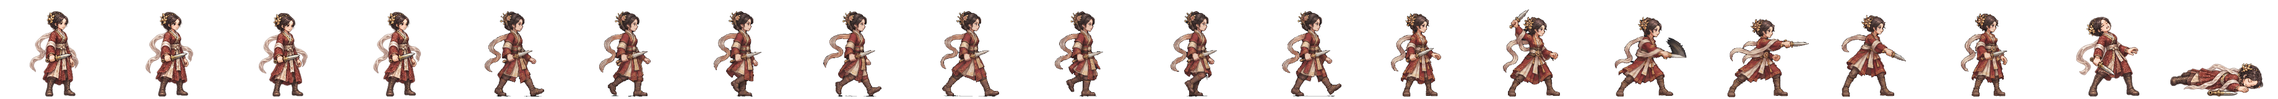
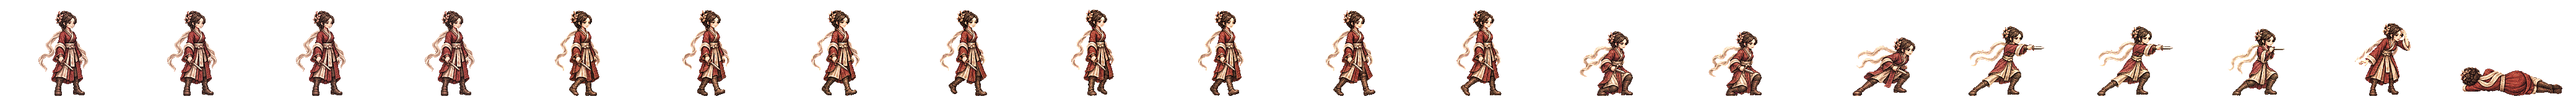
소리 · 궁중 무희 새 전투 띠를 게임에 (그림 API만 · 단검 · 찌르기 · 맞음 네 칸 · 개성 동작) · 갠내 · 독무덤 · 연회 첩자는 걷기만 Codex로 · 열한째 묶음 인수인계
Claude-Session: https://claude.ai/code/session_01TRiuN7s6aDfSnaHxrkctmU

Changed region(s): [[0.0625, 0.0938, 0.5312, 1.0], [0.5625, 0.125, 1.0, 1.0], [0.0, 0.125, 0.0312, 0.9688]]

diff --git a/src/realm/data/spritePx.ts b/src/realm/data/spritePx.ts
@@ -1,3 +1,3 @@
 /** public/realm/anim-px/manifest.json 의 사본 — tools/sprite-normalize.mjs 가 만든다 (손으로 고치지 말 것). 칸 [가로, 세로] · feet = 발 줄(칸 위에서 y) · bodyPx = 서 있는 몸 키 */
 import { expandManifest } from './sprite-manifest.ts'
-export const SPRITE_PX: Readonly<Record<string, { readonly cell: readonly [number, number]; readonly feet: number; readonly bodyPx: number; readonly kind: 'general' | 'soldier' | 'folk' | 'crowd'; readonly cells: number }>> = expandManifest<{ readonly cell: readonly [number, number]; readonly feet: number; readonly bodyPx: number; readonly kind: 'general' | 'soldier' | 'folk' | 'crowd'; readonly cells: number }>([{"cell":[166,128],"feet":126,"bodyPx":124,"kind":"soldier","cells":20},{"cell":[116,128],"feet":126,"bodyPx":117,"kind":"soldier","cells":20},{"cell":[127,128],"feet":126,"bodyPx":116,"kind":"soldier","cells":20},{"cell":[269,128],"feet":126,"bodyPx":126,"kind":"soldier","cells":20},{"cell":[503,128],"feet":126,"bodyPx":127,"kind":"soldier","cells":20},{"cell":[614,128],"feet":126,"bodyPx":126,"kind":"soldier","cells":20},{"cell":[200,160],"feet":156,"bodyPx":138,"kind":"general","cells":20},{"cell":[208,160],"feet":155,"bodyPx":138,"kind":"general","cells":20},{"cell":[208,160],"feet":154,"bodyPx":138,"kind":"general","cells":20},{"cell":[304,160],"feet":155,"bodyPx":135,"kind":"general","cells":20},{"cell":[184,160],"feet":156,"bodyPx":138,"kind":"general","cells":20},{"cell":[208,160],"feet":154,"bodyPx":136,"kind":"general","cells":20},{"cell":[232,160],"feet":156,"bodyPx":138,"kind":"general","cells":20},{"cell":[208,160],"feet":156,"bodyPx":138,"kind":"general","cells":20},{"cell":[168,160],"feet":156,"bodyPx":124,"kind":"general","cells":20},{"cell":[216,160],"feet":156,"bodyPx":130,"kind":"general","cells":20},{"cell":[200,160],"feet":156,"bodyPx":116,"kind":"general","cells":20},{"cell":[192,160],"feet":156,"bodyPx":138,"kind":"general","cells":20},{"cell":[208,160],"feet":154,"bodyPx":135,"kind":"general","cells":20},{"cell":[280,160],"feet":156,"bodyPx":138,"kind":"general","cells":20},{"cell":[232,160],"feet":156,"bodyPx":134,"kind":"general","cells":20},{"cell":[144,160],"feet":156,"bodyPx":70,"kind":"general","cells":20},{"cell":[208,160],"feet":156,"bodyPx":70,"kind":"general","cells":20},{"cell":[192,160],"feet":156,"bodyPx":70,"kind":"general","cells":20},{"cell":[240,160],"feet":155,"bodyPx":138,"kind":"general","cells":20},{"cell":[160,160],"feet":156,"bodyPx":135,"kind":"general","cells":20},{"cell":[192,160],"feet":156,"bodyPx":128,"kind":"general","cells":20},{"cell":[224,160],"feet":155,"bodyPx":138,"kind":"general","cells":20},{"cell":[216,160],"feet":156,"bodyPx":138,"kind":"general","cells":20},{"cell":[208,160],"feet":156,"bodyPx":134,"kind":"general","cells":20},{"cell":[176,160],"feet":156,"bodyPx":130,"kind":"general","cells":20},{"cell":[248,160],"feet":156,"bodyPx":138,"kind":"general","cells":20},{"cell":[248,160],"feet":155,"bodyPx":138,"kind":"general","cells":20},{"cell":[192,160],"feet":155,"bodyPx":138,"kind":"general","cells":20},{"cell":[192,160],"feet":156,"bodyPx":124,"kind":"general","cells":20},{"cell":[208,160],"feet":154,"bodyPx":131,"kind":"general","cells":20},{"cell":[256,160],"feet":156,"bodyPx":138,"kind":"general","cells":20},{"cell":[240,160],"feet":156,"bodyPx":138,"kind":"general","cells":20},{"cell":[232,160],"feet":156,"bodyPx":139,"kind":"general","cells":20},{"cell":[232,160],"feet":156,"bodyPx":73,"kind":"general","cells":20},{"cell":[208,160],"feet":154,"bodyPx":137,"kind":"general","cells":20},{"cell":[264,160],"feet":156,"bodyPx":138,"kind":"general","cells":20},{"cell":[224,160],"feet":156,"bodyPx":138,"kind":"general","cells":20},{"cell":[224,160],"feet":156,"bodyPx":128,"kind":"general","cells":20},{"cell":[176,160],"feet":156,"bodyPx":129,"kind":"general","cells":20},{"cell":[208,160],"feet":154,"bodyPx":139,"kind":"general","cells":20},{"cell":[232,160],"feet":155,"bodyPx":138,"kind":"general","cells":20},{"cell":[208,160],"feet":156,"bodyPx":132,"kind":"general","cells":20},{"cell":[184,160],"feet":156,"bodyPx":122,"kind":"general","cells":20},{"cell":[176,160],"feet":156,"bodyPx":138,"kind":"general","cells":20},{"cell":[280,160],"feet":155,"bodyPx":133,"kind":"general","cells":20},{"cell":[176,160],"feet":156,"bodyPx":70,"kind":"general","cells":20},{"cell":[186,128],"feet":126,"bodyPx":127,"kind":"soldier","cells":20},{"cell":[298,128],"feet":126,"bodyPx":126,"kind":"soldier","cells":20},{"cell":[82,128],"feet":126,"bodyPx":114,"kind":"folk","cells":8},{"cell":[134,128],"feet":126,"bodyPx":119,"kind":"soldier","cells":20},{"cell":[380,128],"feet":126,"bodyPx":124,"kind":"soldier","cells":20},{"cell":[114,128],"feet":126,"bodyPx":115,"kind":"soldier","cells":20},{"cell":[122,128],"feet":126,"bodyPx":114,"kind":"soldier","cells":20},{"cell":[254,128],"feet":126,"bodyPx":128,"kind":"soldier","cells":20},{"cell":[438,128],"feet":126,"bodyPx":126,"kind":"soldier","cells":20},{"cell":[88,128],"feet":126,"bodyPx":113,"kind":"folk","cells":8},{"cell":[100,128],"feet":126,"bodyPx":115,"kind":"folk","cells":8},{"cell":[108,128],"feet":126,"bodyPx":115,"kind":"folk","cells":8},{"cell":[63,128],"feet":126,"bodyPx":113,"kind":"folk","cells":8},{"cell":[69,96],"feet":96,"bodyPx":96,"kind":"crowd","cells":1},{"cell":[54,96],"feet":96,"bodyPx":96,"kind":"crowd","cells":1},{"cell":[47,96],"feet":96,"bodyPx":96,"kind":"crowd","cells":1},{"cell":[49,96],"feet":96,"bodyPx":96,"kind":"crowd","cells":1},{"cell":[57,96],"feet":96,"bodyPx":96,"kind":"crowd","cells":1},{"cell":[55,96],"feet":96,"bodyPx":96,"kind":"crowd","cells":1},{"cell":[45,96],"feet":96,"bodyPx":96,"kind":"crowd","cells":1},{"cell":[53,96],"feet":96,"bodyPx":96,"kind":"crowd","cells":1},{"cell":[64,96],"feet":96,"bodyPx":96,"kind":"crowd","cells":1},{"cell":[184,160],"feet":156,"bodyPx":124,"kind":"general","cells":20},{"cell":[184,160],"feet":156,"bodyPx":134,"kind":"general","cells":20},{"cell":[224,160],"feet":156,"bodyPx":133,"kind":"general","cells":20},{"cell":[192,160],"feet":156,"bodyPx":135,"kind":"general","cells":20},{"cell":[184,160],"feet":156,"bodyPx":137,"kind":"general","cells":20},{"cell":[216,160],"feet":156,"bodyPx":134,"kind":"general","cells":20},{"cell":[216,160],"feet":156,"bodyPx":132,"kind":"general","cells":20},{"cell":[288,160],"feet":156,"bodyPx":138,"kind":"general","cells":20},{"cell":[192,160],"feet":156,"bodyPx":118,"kind":"general","cells":20},{"cell":[208,160],"feet":154,"bodyPx":134,"kind":"general","cells":20},{"cell":[208,160],"feet":154,"bodyPx":128,"kind":"general","cells":20},{"cell":[240,160],"feet":156,"bodyPx":128,"kind":"general","cells":20},{"cell":[184,160],"feet":156,"bodyPx":132,"kind":"general","cells":20},{"cell":[208,160],"feet":156,"bodyPx":123,"kind":"general","cells":20},{"cell":[176,160],"feet":156,"bodyPx":116,"kind":"general","cells":20},{"cell":[272,160],"feet":156,"bodyPx":138,"kind":"general","cells":20},{"cell":[176,160],"feet":156,"bodyPx":122,"kind":"general","cells":20},{"cell":[232,160],"feet":156,"bodyPx":127,"kind":"general","cells":20},{"cell":[168,160],"feet":156,"bodyPx":138,"kind":"general","cells":20},{"cell":[176,160],"feet":156,"bodyPx":137,"kind":"general","cells":20},{"cell":[184,160],"feet":156,"bodyPx":133,"kind":"general","cells":20}],[["axe",0],["bandit-chief",1],["bandit-club",2],["boat",3],["bow",4],["crossbow",5],["gen-adogan",6],["gen-alpyeong",7],["gen-ara",8],["gen-areum",8],["gen-aryeong",9],["gen-bakdal",8],["gen-baram",8],["gen-bdanbi",10],["gen-beom",11],["gen-beombal",8],["gen-beomi",8],["gen-bira",12],["gen-biryu",13],["gen-budeul",8],["gen-byeol",8],["gen-daemusin",14],["gen-daeso",15],["gen-dallae2",10],["gen-dalli",8],["gen-damul",16],["gen-danbi",8],["gen-dangung",17],["gen-darae",18],["gen-dokmudeom",7],["gen-duman",19],["gen-eomni",8],["gen-eureum",20],["gen-g-bow",21],["gen-g-spear",22],["gen-g-sword",23],["gen-gaennae",6],["gen-gamsil",24],["gen-gaon",25],["gen-geota",13],["gen-geumbawi",10],["gen-geumha",26],["gen-goeun",13],["gen-gom",27],["gen-gomok",13],["gen-gureum",8],["gen-guryema",17],["gen-gwaeyu",12],["gen-haebi",8],["gen-haedal",6],["gen-haesol",8],["gen-halla",7],["gen-heo",8],["gen-hneoul",10],["gen-hogong",28],["gen-hojin",13],["gen-horselord",29],["gen-hwalmi",30],["gen-hyeokgeose",17],["gen-hyeopbo",6],["gen-irang",8],["gen-jibaekho",31],["gen-jinha",32],["gen-jita",33],["gen-jumong",34],["gen-keundol",7],["gen-maehwa",35],["gen-maenun",17],["gen-malgalgi",36],["gen-mari",37],["gen-maro",31],["gen-maryeo",13],["gen-mdallae",38],["gen-mir",6],["gen-mount",39],["gen-mulbeom",40],["gen-mulsae",40],["gen-musoe",28],["gen-noeul",8],["gen-nuri",41],["gen-ocheongan",42],["gen-odi",8],["gen-odogan",6],["gen-ogan",17],["gen-oi",43],["gen-olddaeso",20],["gen-onjo",44],["gen-pidogan",13],["gen-sagong",45],["gen-sdallae",6],["gen-sincheongan",28],["gen-singwigan",28],["gen-sinneoul",8],["gen-sobeol",46],["gen-soebi",6],["gen-soebo",47],["gen-soenun",45],["gen-sogeumbi",40],["gen-songbi",42],["gen-songyang",48],["gen-sori",49],["gen-soseono",50],["gen-suro",17],["gen-tahae",6],["gen-tneoul",8],["gen-w-bow",21],["gen-w-spear",51],["gen-waechief",13],["gen-wan",28],["gen-yeodogan",13],["gen-yucheongan",13],["gen-yusugan",31],["horse",52],["marine",53],["migrant",54],["militia",55],["pike",56],["pirate-captain",57],["pirate-sword",58],["shield",59],["spear",60],["villager-builder",61],["villager-farmer",62],["villager-porter",63],["villager-woman",64],["crowd-b1",65],["crowd-b2",66],["crowd-b3",67],["crowd-b4",68],["crowd-b5",69],["crowd-b6",70],["crowd-f1",65],["crowd-f2",70],["crowd-f3",71],["crowd-f4",72],["crowd-f5",65],["crowd-f6",73],["gen-dalbit",13],["gen-base-g-07-drunk-warrior",17],["gen-base-g-40-anya-adan",13],["gen-base-w-13-young-archer",8],["gen-base-g-03-sea-trader",37],["gen-base-w-10-pirate-captain",45],["gen-base-w-64-miri-dallae",45],["gen-base-g-41-goja-bau",37],["gen-base-g-42-dokro-garam",41],["gen-base-g-09-farmer-conscript",28],["gen-base-w-02-goguryeo-lady",28],["gen-base-w-17-mahan-pearl-diver",8],["gen-base-g-17-saro-isageum",47],["gen-base-g-18-daegaya-king",74],["gen-base-g-35-dabeol-dalgu",13],["gen-base-g-19-sabeol-veteran",28],["gen-base-w-23-usisan-whale-queen",8],["gen-base-g-36-gammun-gamdol",42],["gen-base-g-20-samul-sea-lord",36],["gen-base-g-37-eumjeup-jeup",10],["gen-base-g-38-chopal-palmae",17],["gen-base-w-75-daegaya-soemoe",17],["gen-base-g-45-dabeol-deulgae",10],["gen-base-g-04-jinhan-giant",13],["gen-base-g-08-veteran",13],["gen-base-w-18-jinhan-salt-widow",8],["gen-base-w-12-court-dancer",75],["gen-base-w-83-gyeonji-beodeul",76],["gen-base-w-05-baekje-queen",77],["gen-base-w-21-baekje-court-dancer",10],["gen-base-g-01-master-smith",78],["gen-base-g-93-jomun-solgae",30],["gen-base-g-57-bihwa-neup",37],["gen-base-w-72-eumjeup-beol",8],["gen-base-w-102-garak-dana",45],["gen-base-g-68-baekje-onnuri",13],["gen-base-w-27-mokji-jinha",6],["gen-base-g-22-ungcheon-gomnae",6],["gen-base-g-23-sangdang-soedal",13],["gen-base-g-24-wansan-onsan",6],["gen-base-g-25-balla-keunmoe",28],["gen-base-g-61-heomcheuk-bawi",28],["gen-base-g-88-wander-soeul",42],["gen-base-w-14-feast-spy",6],["gen-base-g-12-silla-youth",79],["gen-base-w-08-mahan-warrior",8],["gen-base-g-62-beonye-hanul",37],["gen-base-g-63-heomcheuk-beogeum",13],["gen-base-g-84-wander-seoneul",13],["gen-base-w-50-siljik-mulga",28],["gen-base-g-46-uga-nureongso",28],["gen-base-w-80-usan-gangchi",45],["gen-base-g-47-guga-sanyanggae",28],["gen-base-w-76-gampyeong-baetsagong",8],["gen-base-g-05-mahan-chieftain",80],["gen-base-g-58-usan-uhae",13],["gen-base-g-27-maek-maekdol",13],["gen-base-w-53-hwanna-gabi",45],["gen-base-w-29-golpo-janmul",31],["gen-base-g-53-baekje-haeru",6],["gen-base-w-71-yeonna-neoul",8],["gen-base-w-79-yangmaek-solmae",8],["gen-base-w-34-chopal-deulme",8],["gen-base-g-44-maga-malgup",81],["gen-base-w-31-dabeol-dalbit",45],["gen-base-g-51-biryuna-mulgyeol",42],["gen-base-g-48-gwanna-musoe",13],["gen-base-g-32-uga-sodu",12],["gen-base-g-49-goguryeo-sona",82],["gen-base-g-30-gwanna-soemoe",42],["gen-base-g-52-tamna-oreum",10],["gen-base-g-29-yeonna-myeongsol",34],["gen-base-w-56-dongokjeo-sogeum",83],["gen-base-g-54-mokji-mahan",12],["gen-base-g-33-jeoga-metdol",17],["gen-base-w-36-baekje-maena",8],["gen-base-w-38-sangdang-bulmae",6],["gen-base-w-39-gosaburi-galmae",8],["gen-base-w-40-mujin-munui",47],["gen-base-w-41-hwanna-beodeul",84],["gen-base-w-43-uga-nuri",36],["gen-base-w-45-tamna-oreumbi",10],["gen-base-g-60-golbeol-golgae",10],["gen-base-g-61-apdok-ap",28],["gen-base-g-62-gammun-gamnamu",6],["gen-base-g-63-chopal-yeoul",31],["gen-base-g-64-michuhol-sogeumkkun",37],["gen-base-g-65-sangdang-soemangchi",42],["gen-base-g-66-geonma-malbalgup",85],["gen-base-g-67-gosaburi-buri",86],["gen-base-g-68-mujin-bitgoeul",10],["gen-base-g-69-goryong-yong",42],["gen-base-g-70-siljik-pado",37],["gen-base-w-81-byeokjin-byeolbit",8],["gen-base-w-46-geonma-maru",8],["gen-base-w-48-mujin-mudeung",8],["gen-base-g-26-gampyeong-gaetbeol",12],["gen-base-g-60-eupcha-hangyeol",87],["gen-base-g-15-shaman-man",28],["gen-base-g-85-wander-ure",31],["gen-base-g-43-hwanna-amnok",13],["gen-base-g-50-bullae-gwaha",77],["gen-base-g-55-saro-bakdal",13],["gen-base-g-56-haseulla-gwahama",6],["gen-base-w-06-buyeo-huntress",40],["gen-base-w-22-dongye-tiger-huntress",8],["gen-base-w-25-bihwa-priestess",28],["gen-base-w-24-apdok-queen",10],["gen-base-w-61-iseo-sinae",13],["gen-base-w-26-iseo-tomboy-general",8],["gen-base-g-59-yangmaek-maekson",88],["gen-aw1-haebi",42],["gen-aw1-soseono",89],["gen-aw1-gamsil",10],["gen-aw1-mir",49],["gen-aw1-dangung",6],["gen-aw1-ara",42],["gen-aw1-jumong",90],["gen-aw1-onjo",91],["gen-aw1-base-w-83-gyeonji-beodeul",17],["gen-aw1-heo",41],["gen-aw1-base-g-38-chopal-palmae",6],["gen-aw1-base-w-25-bihwa-priestess",75],["gen-aw1-sori",92],["gen-aw1-gomok",6],["gen-aw1-irang",17],["gen-aw1-budeul",92],["gen-aw1-gom",37],["gen-aw1-sdallae",6],["gen-aw1-base-w-13-young-archer",6],["gen-aw1-base-w-36-baekje-maena",93],["gen-aw1-base-g-09-farmer-conscript",41],["gen-aw1-base-w-02-goguryeo-lady",94],["gen-aw1-haedal",10],["gen-aw1-hogong",6],["gen-aw1-maehwa",49],["gen-aw1-base-w-06-buyeo-huntress",12],["gen-aw1-base-w-08-mahan-warrior",42],["gen-aw1-base-w-29-golpo-janmul",42],["gen-aw1-base-w-31-dabeol-dalbit",17],["gen-aw1-base-w-38-sangdang-bulmae",92],["gen-aw1-bira",28],["gen-aw1-base-w-53-hwanna-gabi",92],["gen-aw1-base-w-56-dongokjeo-sogeum",49],["gen-aw1-base-w-72-eumjeup-beol",17],["gen-aw1-bdanbi",92],["gen-aw1-beom",10],["gen-aw1-beombal",10],["gen-aw1-byeol",17],["gen-aw1-dalli",49],["gen-aw1-malgalgi",31],["gen-aw1-sincheongan",28]])
+export const SPRITE_PX: Readonly<Record<string, { readonly cell: readonly [number, number]; readonly feet: number; readonly bodyPx: number; readonly kind: 'general' | 'soldier' | 'folk' | 'crowd'; readonly cells: number }>> = expandManifest<{ readonly cell: readonly [number, number]; readonly feet: number; readonly bodyPx: number; readonly kind: 'general' | 'soldier' | 'folk' | 'crowd'; readonly cells: number }>([{"cell":[166,128],"feet":126,"bodyPx":124,"kind":"soldier","cells":20},{"cell":[116,128],"feet":126,"bodyPx":117,"kind":"soldier","cells":20},{"cell":[127,128],"feet":126,"bodyPx":116,"kind":"soldier","cells":20},{"cell":[269,128],"feet":126,"bodyPx":126,"kind":"soldier","cells":20},{"cell":[503,128],"feet":126,"bodyPx":127,"kind":"soldier","cells":20},{"cell":[614,128],"feet":126,"bodyPx":126,"kind":"soldier","cells":20},{"cell":[200,160],"feet":156,"bodyPx":138,"kind":"general","cells":20},{"cell":[208,160],"feet":155,"bodyPx":138,"kind":"general","cells":20},{"cell":[208,160],"feet":154,"bodyPx":138,"kind":"general","cells":20},{"cell":[304,160],"feet":155,"bodyPx":135,"kind":"general","cells":20},{"cell":[184,160],"feet":156,"bodyPx":138,"kind":"general","cells":20},{"cell":[208,160],"feet":154,"bodyPx":136,"kind":"general","cells":20},{"cell":[232,160],"feet":156,"bodyPx":138,"kind":"general","cells":20},{"cell":[208,160],"feet":156,"bodyPx":138,"kind":"general","cells":20},{"cell":[168,160],"feet":156,"bodyPx":124,"kind":"general","cells":20},{"cell":[216,160],"feet":156,"bodyPx":130,"kind":"general","cells":20},{"cell":[200,160],"feet":156,"bodyPx":116,"kind":"general","cells":20},{"cell":[192,160],"feet":156,"bodyPx":138,"kind":"general","cells":20},{"cell":[208,160],"feet":154,"bodyPx":135,"kind":"general","cells":20},{"cell":[280,160],"feet":156,"bodyPx":138,"kind":"general","cells":20},{"cell":[232,160],"feet":156,"bodyPx":134,"kind":"general","cells":20},{"cell":[144,160],"feet":156,"bodyPx":70,"kind":"general","cells":20},{"cell":[208,160],"feet":156,"bodyPx":70,"kind":"general","cells":20},{"cell":[192,160],"feet":156,"bodyPx":70,"kind":"general","cells":20},{"cell":[240,160],"feet":155,"bodyPx":138,"kind":"general","cells":20},{"cell":[160,160],"feet":156,"bodyPx":135,"kind":"general","cells":20},{"cell":[192,160],"feet":156,"bodyPx":128,"kind":"general","cells":20},{"cell":[224,160],"feet":155,"bodyPx":138,"kind":"general","cells":20},{"cell":[216,160],"feet":156,"bodyPx":138,"kind":"general","cells":20},{"cell":[208,160],"feet":156,"bodyPx":134,"kind":"general","cells":20},{"cell":[208,160],"feet":154,"bodyPx":130,"kind":"general","cells":20},{"cell":[248,160],"feet":156,"bodyPx":138,"kind":"general","cells":20},{"cell":[248,160],"feet":155,"bodyPx":138,"kind":"general","cells":20},{"cell":[192,160],"feet":155,"bodyPx":138,"kind":"general","cells":20},{"cell":[192,160],"feet":156,"bodyPx":124,"kind":"general","cells":20},{"cell":[208,160],"feet":154,"bodyPx":131,"kind":"general","cells":20},{"cell":[256,160],"feet":156,"bodyPx":138,"kind":"general","cells":20},{"cell":[240,160],"feet":156,"bodyPx":138,"kind":"general","cells":20},{"cell":[232,160],"feet":156,"bodyPx":139,"kind":"general","cells":20},{"cell":[232,160],"feet":156,"bodyPx":73,"kind":"general","cells":20},{"cell":[208,160],"feet":154,"bodyPx":137,"kind":"general","cells":20},{"cell":[264,160],"feet":156,"bodyPx":138,"kind":"general","cells":20},{"cell":[224,160],"feet":156,"bodyPx":138,"kind":"general","cells":20},{"cell":[224,160],"feet":156,"bodyPx":128,"kind":"general","cells":20},{"cell":[176,160],"feet":156,"bodyPx":129,"kind":"general","cells":20},{"cell":[208,160],"feet":154,"bodyPx":139,"kind":"general","cells":20},{"cell":[232,160],"feet":155,"bodyPx":138,"kind":"general","cells":20},{"cell":[208,160],"feet":156,"bodyPx":132,"kind":"general","cells":20},{"cell":[184,160],"feet":156,"bodyPx":122,"kind":"general","cells":20},{"cell":[280,160],"feet":155,"bodyPx":133,"kind":"general","cells":20},{"cell":[176,160],"feet":156,"bodyPx":70,"kind":"general","cells":20},{"cell":[186,128],"feet":126,"bodyPx":127,"kind":"soldier","cells":20},{"cell":[298,128],"feet":126,"bodyPx":126,"kind":"soldier","cells":20},{"cell":[82,128],"feet":126,"bodyPx":114,"kind":"folk","cells":8},{"cell":[134,128],"feet":126,"bodyPx":119,"kind":"soldier","cells":20},{"cell":[380,128],"feet":126,"bodyPx":124,"kind":"soldier","cells":20},{"cell":[114,128],"feet":126,"bodyPx":115,"kind":"soldier","cells":20},{"cell":[122,128],"feet":126,"bodyPx":114,"kind":"soldier","cells":20},{"cell":[254,128],"feet":126,"bodyPx":128,"kind":"soldier","cells":20},{"cell":[438,128],"feet":126,"bodyPx":126,"kind":"soldier","cells":20},{"cell":[88,128],"feet":126,"bodyPx":113,"kind":"folk","cells":8},{"cell":[100,128],"feet":126,"bodyPx":115,"kind":"folk","cells":8},{"cell":[108,128],"feet":126,"bodyPx":115,"kind":"folk","cells":8},{"cell":[63,128],"feet":126,"bodyPx":113,"kind":"folk","cells":8},{"cell":[69,96],"feet":96,"bodyPx":96,"kind":"crowd","cells":1},{"cell":[54,96],"feet":96,"bodyPx":96,"kind":"crowd","cells":1},{"cell":[47,96],"feet":96,"bodyPx":96,"kind":"crowd","cells":1},{"cell":[49,96],"feet":96,"bodyPx":96,"kind":"crowd","cells":1},{"cell":[57,96],"feet":96,"bodyPx":96,"kind":"crowd","cells":1},{"cell":[55,96],"feet":96,"bodyPx":96,"kind":"crowd","cells":1},{"cell":[45,96],"feet":96,"bodyPx":96,"kind":"crowd","cells":1},{"cell":[53,96],"feet":96,"bodyPx":96,"kind":"crowd","cells":1},{"cell":[64,96],"feet":96,"bodyPx":96,"kind":"crowd","cells":1},{"cell":[184,160],"feet":156,"bodyPx":124,"kind":"general","cells":20},{"cell":[208,160],"feet":154,"bodyPx":134,"kind":"general","cells":20},{"cell":[224,160],"feet":156,"bodyPx":133,"kind":"general","cells":20},{"cell":[192,160],"feet":156,"bodyPx":135,"kind":"general","cells":20},{"cell":[184,160],"feet":156,"bodyPx":137,"kind":"general","cells":20},{"cell":[176,160],"feet":156,"bodyPx":130,"kind":"general","cells":20},{"cell":[216,160],"feet":156,"bodyPx":134,"kind":"general","cells":20},{"cell":[216,160],"feet":156,"bodyPx":132,"kind":"general","cells":20},{"cell":[288,160],"feet":156,"bodyPx":138,"kind":"general","cells":20},{"cell":[192,160],"feet":156,"bodyPx":118,"kind":"general","cells":20},{"cell":[208,160],"feet":154,"bodyPx":128,"kind":"general","cells":20},{"cell":[240,160],"feet":156,"bodyPx":128,"kind":"general","cells":20},{"cell":[184,160],"feet":156,"bodyPx":132,"kind":"general","cells":20},{"cell":[208,160],"feet":156,"bodyPx":123,"kind":"general","cells":20},{"cell":[176,160],"feet":156,"bodyPx":116,"kind":"general","cells":20},{"cell":[272,160],"feet":156,"bodyPx":138,"kind":"general","cells":20},{"cell":[176,160],"feet":156,"bodyPx":138,"kind":"general","cells":20},{"cell":[176,160],"feet":156,"bodyPx":122,"kind":"general","cells":20},{"cell":[232,160],"feet":156,"bodyPx":127,"kind":"general","cells":20},{"cell":[184,160],"feet":156,"bodyPx":134,"kind":"general","cells":20},{"cell":[168,160],"feet":156,"bodyPx":138,"kind":"general","cells":20},{"cell":[176,160],"feet":156,"bodyPx":137,"kind":"general","cells":20},{"cell":[184,160],"feet":156,"bodyPx":133,"kind":"general","cells":20}],[["axe",0],["bandit-chief",1],["bandit-club",2],["boat",3],["bow",4],["crossbow",5],["gen-adogan",6],["gen-alpyeong",7],["gen-ara",8],["gen-areum",8],["gen-aryeong",9],["gen-bakdal",8],["gen-baram",8],["gen-bdanbi",10],["gen-beom",11],["gen-beombal",8],["gen-beomi",8],["gen-bira",12],["gen-biryu",13],["gen-budeul",8],["gen-byeol",8],["gen-daemusin",14],["gen-daeso",15],["gen-dallae2",10],["gen-dalli",8],["gen-damul",16],["gen-danbi",8],["gen-dangung",17],["gen-darae",18],["gen-dokmudeom",7],["gen-duman",19],["gen-eomni",8],["gen-eureum",20],["gen-g-bow",21],["gen-g-spear",22],["gen-g-sword",23],["gen-gaennae",6],["gen-gamsil",24],["gen-gaon",25],["gen-geota",13],["gen-geumbawi",10],["gen-geumha",26],["gen-goeun",13],["gen-gom",27],["gen-gomok",13],["gen-gureum",8],["gen-guryema",17],["gen-gwaeyu",12],["gen-haebi",8],["gen-haedal",6],["gen-haesol",8],["gen-halla",7],["gen-heo",8],["gen-hneoul",10],["gen-hogong",28],["gen-hojin",13],["gen-horselord",29],["gen-hwalmi",30],["gen-hyeokgeose",17],["gen-hyeopbo",6],["gen-irang",8],["gen-jibaekho",31],["gen-jinha",32],["gen-jita",33],["gen-jumong",34],["gen-keundol",7],["gen-maehwa",35],["gen-maenun",17],["gen-malgalgi",36],["gen-mari",37],["gen-maro",31],["gen-maryeo",13],["gen-mdallae",38],["gen-mir",6],["gen-mount",39],["gen-mulbeom",40],["gen-mulsae",40],["gen-musoe",28],["gen-noeul",8],["gen-nuri",41],["gen-ocheongan",42],["gen-odi",8],["gen-odogan",6],["gen-ogan",17],["gen-oi",43],["gen-olddaeso",20],["gen-onjo",44],["gen-pidogan",13],["gen-sagong",45],["gen-sdallae",6],["gen-sincheongan",28],["gen-singwigan",28],["gen-sinneoul",8],["gen-sobeol",46],["gen-soebi",6],["gen-soebo",47],["gen-soenun",45],["gen-sogeumbi",40],["gen-songbi",42],["gen-songyang",48],["gen-sori",8],["gen-soseono",49],["gen-suro",17],["gen-tahae",6],["gen-tneoul",8],["gen-w-bow",21],["gen-w-spear",50],["gen-waechief",13],["gen-wan",28],["gen-yeodogan",13],["gen-yucheongan",13],["gen-yusugan",31],["horse",51],["marine",52],["migrant",53],["militia",54],["pike",55],["pirate-captain",56],["pirate-sword",57],["shield",58],["spear",59],["villager-builder",60],["villager-farmer",61],["villager-porter",62],["villager-woman",63],["crowd-b1",64],["crowd-b2",65],["crowd-b3",66],["crowd-b4",67],["crowd-b5",68],["crowd-b6",69],["crowd-f1",64],["crowd-f2",69],["crowd-f3",70],["crowd-f4",71],["crowd-f5",64],["crowd-f6",72],["gen-dalbit",13],["gen-base-g-07-drunk-warrior",17],["gen-base-g-40-anya-adan",13],["gen-base-w-13-young-archer",8],["gen-base-g-03-sea-trader",37],["gen-base-w-10-pirate-captain",45],["gen-base-w-64-miri-dallae",45],["gen-base-g-41-goja-bau",37],["gen-base-g-42-dokro-garam",41],["gen-base-g-09-farmer-conscript",28],["gen-base-w-02-goguryeo-lady",28],["gen-base-w-17-mahan-pearl-diver",8],["gen-base-g-17-saro-isageum",47],["gen-base-g-18-daegaya-king",73],["gen-base-g-35-dabeol-dalgu",13],["gen-base-g-19-sabeol-veteran",28],["gen-base-w-23-usisan-whale-queen",8],["gen-base-g-36-gammun-gamdol",42],["gen-base-g-20-samul-sea-lord",36],["gen-base-g-37-eumjeup-jeup",10],["gen-base-g-38-chopal-palmae",17],["gen-base-w-75-daegaya-soemoe",17],["gen-base-g-45-dabeol-deulgae",10],["gen-base-g-04-jinhan-giant",13],["gen-base-g-08-veteran",13],["gen-base-w-18-jinhan-salt-widow",8],["gen-base-w-12-court-dancer",74],["gen-base-w-83-gyeonji-beodeul",75],["gen-base-w-05-baekje-queen",76],["gen-base-w-21-baekje-court-dancer",10],["gen-base-g-01-master-smith",77],["gen-base-g-93-jomun-solgae",78],["gen-base-g-57-bihwa-neup",37],["gen-base-w-72-eumjeup-beol",8],["gen-base-w-102-garak-dana",45],["gen-base-g-68-baekje-onnuri",13],["gen-base-w-27-mokji-jinha",6],["gen-base-g-22-ungcheon-gomnae",6],["gen-base-g-23-sangdang-soedal",13],["gen-base-g-24-wansan-onsan",6],["gen-base-g-25-balla-keunmoe",28],["gen-base-g-61-heomcheuk-bawi",28],["gen-base-g-88-wander-soeul",42],["gen-base-w-14-feast-spy",6],["gen-base-g-12-silla-youth",79],["gen-base-w-08-mahan-warrior",8],["gen-base-g-62-beonye-hanul",37],["gen-base-g-63-heomcheuk-beogeum",13],["gen-base-g-84-wander-seoneul",13],["gen-base-w-50-siljik-mulga",28],["gen-base-g-46-uga-nureongso",28],["gen-base-w-80-usan-gangchi",45],["gen-base-g-47-guga-sanyanggae",28],["gen-base-w-76-gampyeong-baetsagong",8],["gen-base-g-05-mahan-chieftain",80],["gen-base-g-58-usan-uhae",13],["gen-base-g-27-maek-maekdol",13],["gen-base-w-53-hwanna-gabi",45],["gen-base-w-29-golpo-janmul",31],["gen-base-g-53-baekje-haeru",6],["gen-base-w-71-yeonna-neoul",8],["gen-base-w-79-yangmaek-solmae",8],["gen-base-w-34-chopal-deulme",8],["gen-base-g-44-maga-malgup",81],["gen-base-w-31-dabeol-dalbit",45],["gen-base-g-51-biryuna-mulgyeol",42],["gen-base-g-48-gwanna-musoe",13],["gen-base-g-32-uga-sodu",12],["gen-base-g-49-goguryeo-sona",82],["gen-base-g-30-gwanna-soemoe",42],["gen-base-g-52-tamna-oreum",10],["gen-base-g-29-yeonna-myeongsol",34],["gen-base-w-56-dongokjeo-sogeum",74],["gen-base-g-54-mokji-mahan",12],["gen-base-g-33-jeoga-metdol",17],["gen-base-w-36-baekje-maena",8],["gen-base-w-38-sangdang-bulmae",6],["gen-base-w-39-gosaburi-galmae",8],["gen-base-w-40-mujin-munui",47],["gen-base-w-41-hwanna-beodeul",83],["gen-base-w-43-uga-nuri",36],["gen-base-w-45-tamna-oreumbi",10],["gen-base-g-60-golbeol-golgae",10],["gen-base-g-61-apdok-ap",28],["gen-base-g-62-gammun-gamnamu",6],["gen-base-g-63-chopal-yeoul",31],["gen-base-g-64-michuhol-sogeumkkun",37],["gen-base-g-65-sangdang-soemangchi",42],["gen-base-g-66-geonma-malbalgup",84],["gen-base-g-67-gosaburi-buri",85],["gen-base-g-68-mujin-bitgoeul",10],["gen-base-g-69-goryong-yong",42],["gen-base-g-70-siljik-pado",37],["gen-base-w-81-byeokjin-byeolbit",8],["gen-base-w-46-geonma-maru",8],["gen-base-w-48-mujin-mudeung",8],["gen-base-g-26-gampyeong-gaetbeol",12],["gen-base-g-60-eupcha-hangyeol",86],["gen-base-g-15-shaman-man",28],["gen-base-g-85-wander-ure",31],["gen-base-g-43-hwanna-amnok",13],["gen-base-g-50-bullae-gwaha",76],["gen-base-g-55-saro-bakdal",13],["gen-base-g-56-haseulla-gwahama",6],["gen-base-w-06-buyeo-huntress",40],["gen-base-w-22-dongye-tiger-huntress",8],["gen-base-w-25-bihwa-priestess",28],["gen-base-w-24-apdok-queen",10],["gen-base-w-61-iseo-sinae",13],["gen-base-w-26-iseo-tomboy-general",8],["gen-base-g-59-yangmaek-maekson",87],["gen-aw1-haebi",42],["gen-aw1-soseono",88],["gen-aw1-gamsil",10],["gen-aw1-mir",89],["gen-aw1-dangung",6],["gen-aw1-ara",42],["gen-aw1-jumong",90],["gen-aw1-onjo",91],["gen-aw1-base-w-83-gyeonji-beodeul",17],["gen-aw1-heo",41],["gen-aw1-base-g-38-chopal-palmae",6],["gen-aw1-base-w-25-bihwa-priestess",92],["gen-aw1-sori",93],["gen-aw1-gomok",6],["gen-aw1-irang",17],["gen-aw1-budeul",93],["gen-aw1-gom",37],["gen-aw1-sdallae",6],["gen-aw1-base-w-13-young-archer",6],["gen-aw1-base-w-36-baekje-maena",94],["gen-aw1-base-g-09-farmer-conscript",41],["gen-aw1-base-w-02-goguryeo-lady",95],["gen-aw1-haedal",10],["gen-aw1-hogong",6],["gen-aw1-maehwa",89],["gen-aw1-base-w-06-buyeo-huntress",12],["gen-aw1-base-w-08-mahan-warrior",42],["gen-aw1-base-w-29-golpo-janmul",42],["gen-aw1-base-w-31-dabeol-dalbit",17],["gen-aw1-base-w-38-sangdang-bulmae",93],["gen-aw1-bira",28],["gen-aw1-base-w-53-hwanna-gabi",93],["gen-aw1-base-w-56-dongokjeo-sogeum",89],["gen-aw1-base-w-72-eumjeup-beol",17],["gen-aw1-bdanbi",93],["gen-aw1-beom",10],["gen-aw1-beombal",10],["gen-aw1-byeol",17],["gen-aw1-dalli",89],["gen-aw1-malgalgi",31],["gen-aw1-sincheongan",28]])

diff --git a/src/tune/params.ts b/src/tune/params.ts
@@ -750,8 +750,10 @@ export const HAEBI_BUILD = {
  * 봉수대 beacon: 무적 · every − everyStep × (단계−1) 초마다 연기를 올리고, 장수 화면에서 cluster px 안에 적이 가장 많이 뭉친 곳에 delay 초 뒤 화살비 (금빛 표식 먼저 · 둘레 radius + radiusStep × (단계−1) · 피해 그때 잡졸 체력 × (share + shareStep × (단계−1))).
  * 포차 catapult: 망루처럼 체력이 있고 끌린다 (aggroR · 셋에 하나) · every − everyStep × (단계−1) 초마다 minRange~range 안에서 cluster px 안에 적이 가장 많은 곳(같으면 먼 곳)으로 바위를 던진다
  *   (flight 초 날아감 · 둘레 radius + radiusStep × (단계−1) · 피해 그때 잡졸 체력 × (share + shareStep × (단계−1)) · 그을린 자국과 패인 자국을 남긴다).
- * 우물 well: 무적 · 장수가 둘레 radius + radiusStep × (단계−1) 안에 서 있으면 초마다 heal + healStep × (단계−1) 회복 (우물이 여럿이어도 한 번).
- * view: 그림 (화면만) — 높이 h(체력 띠 자리 · 포차는 조립한 그림 높이) · 혼줄 빛 line(두께 lineW · 진하기 lineAlpha) · 솟대 고리 sotdaeRing · 우물 고리 wellRing · 물방울 drops · 새 깡충 hop · 연기 smoke · 화살비 화살 수 arrows · 바위 크기 rock · 포물선 높이 arc ·
+ * 우물 well: 무적 · 판에 하나만 선다 (3·5단계에도 더 안 놓는다) · 쿨타임(cd)이 찼고 체력이 가득이 아닐 때 장수가 둘레 radius + radiusStep × (단계−1) 안에 들어오면 최대 체력의 share + shareStep × (단계−1) 몫을 한 번에 채우고,
+ *   cool − coolStep × (단계−1) 초 뒤에야 다시 채운다 (곁에 서 있는다고 계속 차오르지 않는다 · 체력이 가득이면 쿨타임을 쓰지 않는다).
+ * view: 그림 (화면만) — 높이 h(체력 띠 자리 · 포차는 조립한 그림 높이) · 혼줄 빛 line(두께 lineW · 진하기 lineAlpha) · 솟대 고리 sotdaeRing · 우물 고리 wellRing(쿨타임 동안은 wellCold 배로 옅다) · 우물 물 water(찬 물빛 · 빈 바닥 dry · 찼을 때 번쩍 glow) · 물방울 drops(찼을 때만 솟는다) ·
+ *   heal 채우는 순간(장수에게 튀는 물보라 splash n개 · 크기 size · 퍼짐 spread · 솟음 rise · 색 color · 「+N」 글자 life 초 · lift 장수 위 · rise 떠오름 · size · stroke · fill · edge · ring 퍼지는 고리 반지름 · color) · 새 깡충 hop · 연기 smoke · 화살비 화살 수 arrows · 바위 크기 rock · 포물선 높이 arc ·
  *   throwOut 포차 팔이 장전 자리에서 넘어가는 초.
  * view.pocha 포차 부품 조립 (형 11-23 「포차는 부품마다 에셋」 「돌이 바닥에서 시작해서 던져져야」) — 부품 크기·축 자리는 public/realm/raid/pocha/pocha.json (2배 그림 px) 그대로 · scale 게임 px 몫(.5) ·
  *   wheelLift 받침 발이 땅 위로 뜬 몫(바퀴 반지름 몫) · arm.len·tail 축에서 팔 끝·꼬리까지(게임 px) · rockLift 바위가 주머니 자리에서 뜨는 px · rockSpin 날며 도는 몫 ·
@@ -766,11 +768,13 @@ export const HAEBI_BUILD2 = {
   sotdae: { ahead: 70, r: 12, radius: 150, radiusStep: 15, slow: .25, slowStep: .06 },
   beacon: { ahead: 90, r: 26, every: 8, everyStep: .6, delay: 1, cluster: 120, radius: 115, radiusStep: 10, share: 1, shareStep: .3 },
   catapult: { ahead: 100, r: 32, hp: 320, hpStep: 110, rebuild: 12, aggroR: 140, aggroEvery: 3, touch: 6, bite: 1, every: 5.5, everyStep: .4, minRange: 170, range: 640, cluster: 110, flight: 1.1, radius: 125, radiusStep: 10, share: 1.3, shareStep: .35 },
-  well: { ahead: 70, r: 26, radius: 120, radiusStep: 12, heal: 3, healStep: 1.5 },
+  well: { ahead: 70, r: 26, radius: 120, radiusStep: 12, share: .25, shareStep: .05, cool: 30, coolStep: 3 },
   view: {
     h: { totem: 92, sotdae: 84, beacon: 92, catapult: 104, well: 40 }, shadow: 1.1,
     line: '#9fe8ff', lineW: 4, lineAlpha: .55, lineGlow: 12,
-    sotdaeRing: '#d8f0ff', sotdaeAlpha: .22, wellRing: '#7fc8ff', wellAlpha: .3, wellFill: .08,
+    sotdaeRing: '#d8f0ff', sotdaeAlpha: .22, wellRing: '#7fc8ff', wellAlpha: .3, wellFill: .08, wellCold: .35,
+    water: { full: '#3f9fd6', shine: '#d6f4ff', dry: '#120d09', glow: .5 },
+    heal: { ring: 70, color: '#8fe3ff', life: 1, lift: 46, rise: 34, size: 20, stroke: 4, fill: '#9dffc4', edge: '#06231a', splash: { n: 12, size: 3.5, spread: 36, rise: 48, color: '#bfe6ff' } },
     drops: { n: 5, size: 3, rise: 26, color: '#bfe6ff' }, hop: { height: 5, hz: 2.2 },
     smoke: { n: 5, size: 14, rise: 70, color: '#5d5550', alpha: .5, life: 2.2 },
     arrows: 5, arrow: 38, fall: 260, mark: '#ffd77a', markAlpha: .5,
@@ -1473,6 +1477,8 @@ export const HAEBI_IDLE = {
     mulsae: { cells: 38, base: [0, 1], hold: 2.4, fall: [18, 20, 21, 19], quirk: [22, 23, 24, 25], quirkTimes: [.3, .32, .4, .28], attack: { cells: [26, 27, 28, 29, 30, 31, 32, 33], times: [.09, .08, .11, .12, .12, .08, .08, .12], hit: 3 }, hurt: [34, 35], rise: [36, 37], xGeom: { h: 224, root: 92, foot: 216 } },
     bakdal: { cells: 26, base: [0, 1], hold: 2.4, fall: [18, 20, 21, 19], hurt: [22, 23], rise: [24, 25] },
     darae: { cells: 30, base: [0, 1], hold: 2.4, fall: [18, 20, 21, 19], quirk: [22, 23, 24, 25], quirkTimes: [.28, .3, .42, .25], hurt: [26, 27], rise: [28, 29] },
+    sori: { cells: 38, base: [0, 1], hold: 2.4, fall: [18, 20, 21, 19], attack: { cells: [22, 23, 24, 25, 26, 27, 28, 29], times: [.09, .08, .11, .12, .12, .08, .08, .12], hit: 3 }, hurt: [34, 35], rise: [36, 37], xGeom: { h: 224, root: 92, foot: 216 } },
+    'base-w-12-court-dancer': { cells: 38, base: [0, 1], hold: 2.4, fall: [18, 20, 21, 19], attack: { cells: [22, 23, 24, 25, 26, 27, 28, 29], times: [.09, .08, .11, .12, .12, .08, .08, .12], hit: 3 }, hurt: [34, 35], rise: [36, 37], xGeom: { h: 224, root: 92, foot: 216 } },
     hwalmi: { cells: 30, base: [0, 1], hold: 2.4, fall: [18, 20, 21, 19], quirk: [22, 23, 24, 25], quirkTimes: [.28, .3, .42, .25], hurt: [26, 27], rise: [28, 29] },
   },
 } as const

diff --git a/src/duel/view.ts b/src/duel/view.ts
@@ -100,7 +100,7 @@ const crowdFront = [1, 2, 3, 4, 5, 6].map((i) => img(`realm/duel/crowd/b${i}.png
 const crowdReady = (set: HTMLImageElement[]): boolean => set.every((im) => im.complete && im.naturalWidth > 0)
 const pxMode = cfg.px !== false && params.get('px') !== '0'
 /** 겨루기 전용 옛 띠(duel/sprites) 대신 열전과 같은 도트 띠(anim-px)를 쓰는 장수 — 두 판에서 같은 모습 · 서기 계획·쓰러지는 칸도 같다 (11-23 범 · 매화 · 달빛 · 11-24 해비 · 아룸) */
-const PX_DUEL: ReadonlySet<string> = new Set(['beom', 'maehwa', 'base-w-31-dabeol-dalbit', 'haebi', 'areum', 'base-w-13-young-archer', 'base-w-10-pirate-captain', 'base-w-17-mahan-pearl-diver', 'base-w-06-buyeo-huntress', 'base-w-64-miri-dallae', 'ara', 'base-w-22-dongye-tiger-huntress', 'noeul', 'sagong', 'sinneoul', 'heo', 'base-w-08-mahan-warrior', 'base-w-23-usisan-whale-queen', 'base-w-26-iseo-tomboy-general', 'base-w-72-eumjeup-beol', 'tneoul', 'odi', 'base-w-76-gampyeong-baetsagong', 'base-w-34-chopal-deulme', 'base-w-102-garak-dana', 'base-w-36-baekje-maena', 'base-w-56-dongokjeo-sogeum', 'budeul', 'base-w-53-hwanna-gabi', 'base-w-18-jinhan-salt-widow', 'beombal', 'irang', 'sogeumbi', 'baram', 'byeol', 'base-w-71-yeonna-neoul', 'base-w-39-gosaburi-galmae', 'base-w-41-hwanna-beodeul', 'base-w-79-yangmaek-solmae', 'base-w-46-geonma-maru', 'base-w-48-mujin-mudeung', 'base-w-80-usan-gangchi', 'base-w-81-byeokjin-byeolbit', 'beomi', 'danbi', 'dalli', 'gureum', 'haesol', 'soenun', 'eomni', 'mulbeom', 'mulsae', 'bakdal', 'darae', 'hwalmi'])
+const PX_DUEL: ReadonlySet<string> = new Set(['beom', 'maehwa', 'base-w-31-dabeol-dalbit', 'haebi', 'areum', 'base-w-13-young-archer', 'base-w-10-pirate-captain', 'base-w-17-mahan-pearl-diver', 'base-w-06-buyeo-huntress', 'base-w-64-miri-dallae', 'ara', 'base-w-22-dongye-tiger-huntress', 'noeul', 'sagong', 'sinneoul', 'heo', 'base-w-08-mahan-warrior', 'base-w-23-usisan-whale-queen', 'base-w-26-iseo-tomboy-general', 'base-w-72-eumjeup-beol', 'tneoul', 'odi', 'base-w-76-gampyeong-baetsagong', 'base-w-34-chopal-deulme', 'base-w-102-garak-dana', 'base-w-36-baekje-maena', 'base-w-56-dongokjeo-sogeum', 'budeul', 'base-w-53-hwanna-gabi', 'base-w-18-jinhan-salt-widow', 'beombal', 'irang', 'sogeumbi', 'baram', 'byeol', 'base-w-71-yeonna-neoul', 'base-w-39-gosaburi-galmae', 'base-w-41-hwanna-beodeul', 'base-w-79-yangmaek-solmae', 'base-w-46-geonma-maru', 'base-w-48-mujin-mudeung', 'base-w-80-usan-gangchi', 'base-w-81-byeokjin-byeolbit', 'beomi', 'danbi', 'dalli', 'gureum', 'haesol', 'soenun', 'eomni', 'mulbeom', 'mulsae', 'bakdal', 'darae', 'sori', 'base-w-12-court-dancer', 'hwalmi'])
 /** 띠 그림 — 기본은 anim-px(도트 규격) 먼저, 없으면 옛 띠로 (img 의 onerror 가 갈아 끼운다) */
 const strip = (s: string): HTMLImageElement => pxMode
   ? DUEL_ATLASES[s] !== undefined && !PX_DUEL.has(s) ? img(`realm/duel/sprites/gen-${s}.png`, `realm/anim-px/gen-${s}.png`)

diff --git a/src/raid/hero-hd.ts b/src/raid/hero-hd.ts
@@ -29,7 +29,6 @@ export const HERO_HD: Readonly<Record<string, string>> = {
   'anim-px/gen-base-w-24-apdok-queen.png': 'anim-px/gen-base-w-24-apdok-queen_hd.png',
   'anim-px/gen-base-w-21-baekje-court-dancer.png': 'anim-px/gen-base-w-21-baekje-court-dancer_hd.png',
   'anim-px/gen-base-w-14-feast-spy.png': 'anim-px/gen-base-w-14-feast-spy_hd.png',
-  'anim-px/gen-base-w-12-court-dancer.png': 'anim-px/gen-base-w-12-court-dancer_hd.png',
   'anim-px/gen-aw1-base-w-13-young-archer.png': 'anim-px/gen-aw1-base-w-13-young-archer_hd.png',
   'anim-px/gen-aw1-base-w-08-mahan-warrior.png': 'anim-px/gen-aw1-base-w-08-mahan-warrior_hd.png',
   'anim-px/gen-base-w-05-baekje-queen.png': 'anim-px/gen-base-w-05-baekje-queen_hd.png',

diff --git a/tools/sprite-kit/anim-harness.py b/tools/sprite-kit/anim-harness.py
@@ -72,7 +72,7 @@ HEROES = {
     'bakdal': dict(hit=True, strip='gen-bakdal', atk='bow', atk8=False),   # 불래 박달(활 · 가슴 M) · 아홉째 묶음
     'darae': dict(hit=True, strip='gen-darae', atk='bow', atk8=False),   # 부여 다래(활 · 가슴 M) · 아홉째 묶음
     'haedal': dict(strip='gen-haedal', atk='bow', atk8=False),   # 부여 해달(활 · 가슴 M) · 아홉째 묶음
-    'hwalmi': dict(strip='gen-hwalmi', atk='bow', atk8=False),   # 고구려 활미(활 · 가슴 M) · 아홉째 묶음
+    'hwalmi': dict(hit=True, strip='gen-hwalmi', atk='bow', atk8=False),   # 고구려 활미(활 · 가슴 M) · 아홉째 묶음
     'wan': dict(strip='gen-wan', atk='bow', atk8=False),   # 완산 완(활 · 가슴 M) · 아홉째 묶음
     'sogeum': dict(hit=True, strip='gen-base-w-56-dongokjeo-sogeum', atk='slash', atk8=True, act=True, legacy=(('a', 1), ('a', 3), ('b', 2), ('b', 4))),   # 동옥저 소금 상인(단검 · 가슴 XL) · 좁은 칸은 아라처럼 덜 뻗은 칸
     'budeul': dict(hit=True, strip='gen-budeul', atk='slash', atk8=True, act=True, legacy=(('a', 1), ('a', 3), ('b', 2), ('b', 4))),   # 골벌 부들(단검 · 가슴 L)
@@ -82,6 +82,11 @@ HEROES = {
     'irang': dict(hit=True, strip='gen-irang', atk='slash', atk8=True, act=True, legacy=(('b', 3), ('b', 1), ('b', 2), ('b', 4)), cells8=[('b', 4), ('b', 3), ('b', 3), ('b', 1), ('b', 1), ('b', 2), ('b', 3), ('b', 4)]),   # 조문 이랑(단검 · 가슴 M) · 내려베기 a 판은 그림 도구가 거절 → b 판 넷으로 여덟 칸(거둠 칸을 당김으로 · 찌르는 칸 넷째)
     'sogeumbi': dict(hit=True, strip='gen-sogeumbi', atk='slash', atk8=True, act=True, legacy=(('a', 1), ('a', 3), ('b', 2), ('b', 4))),   # 옥저 소금비(한 손 칼 · 가슴 M)
     'baram': dict(strip='gen-baram', atk='stab', atk8=True, act=True, legacy=(('a', 2), ('a', 3), ('b', 1), ('b', 2)), cells8=[('a', 1), ('a', 2), ('a', 3), ('a', 4), ('b', 1), ('b', 2), ('a', 1), ('b', 4)]),   # 고사부리 바람(단검 · 가슴 M) · 11-24 새 단검 인형 찌르기(stab · 타격 a4) · 좁은 칸은 뿌리 앞 104 까지라 a4(108) 대신 버팀 b1(98) · b3 이 팔을 다시 뻗어 두 번 찌르듯 보여(독립 검수) 일곱째 칸은 낮은 겨눔 a1 · b1 머리칼의 자홍 점 여섯은 이웃 색으로 메움(px)
+    'sori': dict(hit=True, strip='gen-sori', atk='stab', atk8=True, act=True, legacy=(('a', 2), ('a', 3), ('b', 1), ('b', 2)), cells8=[('a', 1), ('a', 2), ('a', 3), ('a', 4), ('b', 1), ('b', 2), ('a', 1), ('b', 4)]),   # 소리(단검 · 가슴 M · 등에 활) · 열한째 묶음(API) 새 단검 인형 찌르기(stab)
+    'gungmu': dict(hit=True, strip='gen-base-w-12-court-dancer', atk='stab', atk8=True, act=True, legacy=(('a', 2), ('a', 3), ('b', 1), ('b', 2)), cells8=[('a', 1), ('a', 2), ('a', 3), ('a', 4), ('b', 1), ('b', 2), ('a', 1), ('b', 4)]),   # 궁중 무희(단검 · 가슴 M) · 열한째 묶음(API) 새 단검 인형 찌르기(stab)
+    'gaennae': dict(strip='gen-gaennae', atk='stab', atk8=True, act=True, legacy=(('a', 2), ('a', 3), ('b', 1), ('b', 2)), cells8=[('a', 2), ('a', 2), ('a', 3), ('a', 4), ('b', 1), ('b', 2), ('a', 2), ('b', 4)]),   # 미추홀 갠내(단검 · 가슴 L) · 열한째 묶음(API) 새 단검 인형 찌르기(stab)
+    'dokmudeom': dict(strip='gen-dokmudeom', atk='stab', atk8=True, act=True, legacy=(('a', 2), ('a', 3), ('b', 1), ('b', 2)), cells8=[('a', 1), ('a', 2), ('a', 3), ('a', 4), ('b', 1), ('b', 2), ('a', 1), ('b', 4)]),   # 발라 독무덤(단검 · 가슴 M) · 열한째 묶음(API) 새 단검 인형 찌르기(stab)
+    'cheopja': dict(strip='gen-base-w-14-feast-spy', atk='stab', atk8=True, act=True, legacy=(('a', 2), ('a', 3), ('b', 1), ('b', 2)), cells8=[('a', 1), ('a', 2), ('a', 3), ('a', 4), ('b', 1), ('b', 2), ('a', 1), ('b', 4)]),   # 연회 첩자(단검 · 가슴 M) · 열한째 묶음(API) 새 단검 인형 찌르기(stab)
     'byeol': dict(hit=True, strip='gen-byeol', atk='slash', atk8=True, act=True, legacy=(('a', 1), ('a', 3), ('b', 2), ('b', 4))),   # 벽진 별(한 손 칼 · 가슴 M · 달군 칼날은 불빛 없이) · 11-24 G4(내려베기 a)만 받음 · G5(b) 거절 → 보류
     'maru': dict(hit=True, strip='gen-base-w-46-geonma-maru', atk='thrust', src='thrust2', actw=264, refoot=True, atk8=True, act=True, legacy=(('a', 2), ('a', 3), ('b', 3), ('b', 4)), cells8=[('a', 1), ('a', 2), ('a', 3), ('a', 4), ('a', 4), ('a', 4), ('b', 3), ('b', 4)]),   # 건마 마루(짧은 창 · 가슴 M) · 여섯째 묶음 · refoot: 찌르기 b 가 인형보다 넓게 뻗어 통째 겹침이 -42px 밀려 b3·b4 의 발을 잘못 잡았다(bake-scene attack4)
     'mudeung': dict(hit=True, strip='gen-base-w-48-mujin-mudeung', atk='thrust', src='thrust2', actw=264, refoot=True, atk8=True, act=True, legacy=(('a', 2), ('a', 3), ('b', 3), ('a', 1)), cells8=[('a', 1), ('a', 2), ('a', 3), ('a', 4), ('a', 4), ('a', 4), ('a', 3), ('a', 1)]),   # 무진 무등(깃털 단 창 · 우람한 뼈대 · 나이 든 얼굴) · 여섯째 묶음 · 찌르기 b 칸4 가 서기보다 9% 크게 그려져(키 150 · 다시 그리기 한 번 씀) 끝 칸을 a1 로(뱃사공과 같은 길)

diff --git a/docs/realm/production/CLAUDE-HANDOFF-20261124.md b/docs/realm/production/CLAUDE-HANDOFF-20261124.md
@@ -230,12 +230,13 @@
 - 못 본 것: 게임 화면(canvas) · 걷기 다리 교대(물범 · 달래 · 누리 · 물새도 중간 확신) · 확대 6배 전수 · Claude API 검수(안 돌림).
 - 쓴 돈: 그림 29장(서기 4 · 동작 15 · 찌르기 b 4 · 맞음 4 · 다시 2) · 입력 72,046 · 출력 150,072 토큰(`tools/out/api-ledger.tsv`) · 거절 1장 장부에 안 남음. 시간: 서기부터 설치까지 넷 함께 약 1시간 10분(그림 받기는 장당 1분 · 나머지는 굽기와 검수).
 
-## 열한째 묶음 (API 만 · 단검 장수 다섯 · 11-24 밤) — 다섯 모두 걷기 다리 교대를 못 가려 게임에 안 넣음(보류)
+## 열한째 묶음 (API 만 · 단검 장수 다섯 · 11-24 밤) — 소리 · 궁중 무희 게임에 들어감 · 갠내 · 독무덤 · 연회 첩자는 걷기만 Codex(K7 · K8 · K9)
 - 대상: 소리(sori · w-11 · 등에 활) · 궁중 무희(gungmu = base-w-12-court-dancer · w-12) · 갠내(gaennae · w-37 · 가슴 L) · 독무덤(dokmudeom · w-74) · 연회 첩자(cheopja = base-w-14-feast-spy · w-14). 지금 띠 첫 칸을 3배로 키워 다섯 모두 짧은 단검임을 확인. 건너뛴 이: 비라(밧줄 올가미) · 말갈기(채찍) · 달래2(쌍단검 · 굽은 날) · 신귀간(초상에 전복 껍데기 · 띠의 금빛 날이 칼인지 애매). 새 방식 띠가 이미 있는 장수는 없었다(HEROES 에 없음).
 - 흐름: 서기 다섯 한 일감(45초) → `scene-pack.py <이름> dagger <결> e2 <M|L>`(sori prowl · gungmu sway · gaennae bouncy[L] · dokmudeom plain · cheopja proud) → 걷기·찌르기 a·개성 동작·쓰러짐 스무 장 한 일감(동시 8 · 약 3분) → 찌르기 b 다섯 → 맞음 다섯(`hit-jobs.py` · `regrid-api.py` · `bake-scene motion … hit` · `hit-scale.py`). 일감 글: `tools/out/h11/h11-stand.py` · `h11-motion.py`(걷기·찌르기 a/b·개성·쓰러짐 · `python h11-motion.py b` 가 b) · `walkredo.py`.
 - 거절 0장. 다시 받기(장마다 한 번): 걷기 넷(소리·무희·갠내·독무덤 — 위·아랫줄이 같은 다리 같아 「위줄에서 앞인 다리는 아랫줄에서 뒤」 줄을 넣어 다시 · 앞 판 `-v1`) · 소리 개성 동작(칸4 자리를 잃은 판 → 레이아웃 고정 줄 · 앞 판 `-v1`) · 소리 맞음(단검이 두 배로 길어짐 → 길이 줄 · 앞 판 `-v1`).
 - 쓰러짐: 다섯 모두 30세 미만이라 단정하게(팔다리 이어짐 · 단검 없음 · 불투명). 띠 검사(`strip` 설치 없이): 다섯 모두 합격(경고: 공격 끝 칸 윗몸 소리 +17% · 무희 +11% · 첩자 -17% · 독무덤 +6.5% · 갠내 -8%). 갠내는 찌르기 a1 이 뿌리 오른쪽으로 35px 치우쳐 `cells8` 의 a1 을 a2 로 바꿨다. HEROES 줄 다섯은 anim-harness 에 있다(hit 는 안 붙임).
-- **보류 까닭 = 걷기 다리 교대**: 내가 위·아랫줄 5배 확대를 봤을 때 첩자·무희·갠내(앞뒤 발이 다름)·독무덤은 줄마다 배치가 달랐으나 치마·긴 신목 때문에 허벅지 겹침 순서(가까운 다리가 먼 다리 앞)는 어느 장수도 확정 못 했다. 독립 검수(sonnet)는 「못 가림」을 솔직히 적고 갠내 열1·4 · 독무덤 열4 · 첩자 열2~4 가 교대 안 된 의심이라 했다. 열째 묶음과 같은 판정으로 **다섯 모두 걷기를 Codex 로** 보내기로 했다(코디네이터에게 SendMessage). 걷기만 받으면 `walk` → `strip <이름> install` → `wire-hero.py <열쇠> quirk=.3,.32,.4,.28 atk8 hit=3 times=.09,.08,.11,.12,.12,.08,.08,.12 act hit` → `hit-install.py <이름>`(소리·무희·갠내·독무덤·첩자 순으로 HEROES 열쇠 sori · gungmu · gaennae · dokmudeom · cheopja). 받은 그림·px 칸·맞음·쓰러짐은 STD 에 다 있고 **걷기를 뺀 나머지는 검수 통과 상태**다.
+- **코디네이터 새 기준(11-24 밤)**: 같은 색·같은 옷이라 교대를 가릴 수 없는 것은 흠이 아니다 — 게임 크기에서 보이는 흠(같은 다리가 두 번 앞 · 미끄러짐 · 한쪽 다리만 계속 앞)만 흠. 그래서 검수가 칸을 짚지 않은 소리 · 궁중 무희는 `strip install` → `wire-hero.py sori|base-w-12-court-dancer quirk=.3,.32,.4,.28 atk8 hit=3 times=.09,.08,.11,.12,.12,.08,.08,.12 act hit` → `hit-install.py sori gungmu` 로 **게임에 넣었다**(띠 검사 합격 · typecheck · npm test 실패 0). 갠내 열1·4 · 독무덤 열4 · 첩자 열2~4 가 짚혀 걷기만 Codex 로(NOW K7 · K8 · K9 · 받은 판은 `STD/out-<이름>-walk8-k.png` → 옛 판을 `-v2` 로 옮기고 복사). 설치 순서는 아래 같다.
+- (아래는 처음 보류했던 때의 판단 기록) **보류 까닭 = 걷기 다리 교대**: 내가 위·아랫줄 5배 확대를 봤을 때 첩자·무희·갠내(앞뒤 발이 다름)·독무덤은 줄마다 배치가 달랐으나 치마·긴 신목 때문에 허벅지 겹침 순서(가까운 다리가 먼 다리 앞)는 어느 장수도 확정 못 했다. 독립 검수(sonnet)는 「못 가림」을 솔직히 적고 갠내 열1·4 · 독무덤 열4 · 첩자 열2~4 가 교대 안 된 의심이라 했다. 열째 묶음과 같은 판정으로 **다섯 모두 걷기를 Codex 로** 보내기로 했다(코디네이터에게 SendMessage). 걷기만 받으면 `walk` → `strip <이름> install` → `wire-hero.py <열쇠> quirk=.3,.32,.4,.28 atk8 hit=3 times=.09,.08,.11,.12,.12,.08,.08,.12 act hit` → `hit-install.py <이름>`(소리·무희·갠내·독무덤·첩자 순으로 HEROES 열쇠 sori · gungmu · gaennae · dokmudeom · cheopja). 받은 그림·px 칸·맞음·쓰러짐은 STD 에 다 있고 **걷기를 뺀 나머지는 검수 통과 상태**다.
 - Claude API 검수(`tools/out/review/claude-h11-flow.json` · 판 5 · 걸린 줄 4): 소리 — 찌르기 버팀 칸 팔이 굽음(좁은 옛 칸 쪽이라 본 전투 칸과 다름) · 걷기 칼 든 팔이 거의 안 흔들림 / 갠내 — 같은 걷기 팔 · 찌르기 a1 이 오른쪽으로 치우침(→ a2 로 고침) / 독무덤 — 끝 칸(b4 · 키 126)이 서기보다 작고 가늚 / 첩자 — 개성 동작 칸13 이 단검 대신 작은 잔을 쥠(의도한 잔 돌리기 동작) / 무희 — 걸린 것 없음. 걷기 팔 흔듦이 작은 것은 새 단검 인형의 알려진 한계(바람과 같음).
 - 독립 검수(sonnet · 칸 확대 포함): 단검은 모든 칸에서 하나 · 맞음 칸 2·3 의 칼이 팔·바닥 자세 탓에 길어 보임(소리는 다시 받음) · 쓰러짐 전원 단정 · 같은 사람 · 출렁임 없음. 「넣어도 된다」는 다섯 모두 조건부(다리 교대).
 - 못 본 것: 게임 화면 · 걷기 다리 교대(위) · 맞음·쓰러짐 판 오른쪽 열이 검수 판에서 잘려 보였다는 보고(보드 폭 탓으로 보이나 확인 못 함 — 칸 자체는 150px 안에서 직접 봄) · 확대 6배 전수.
